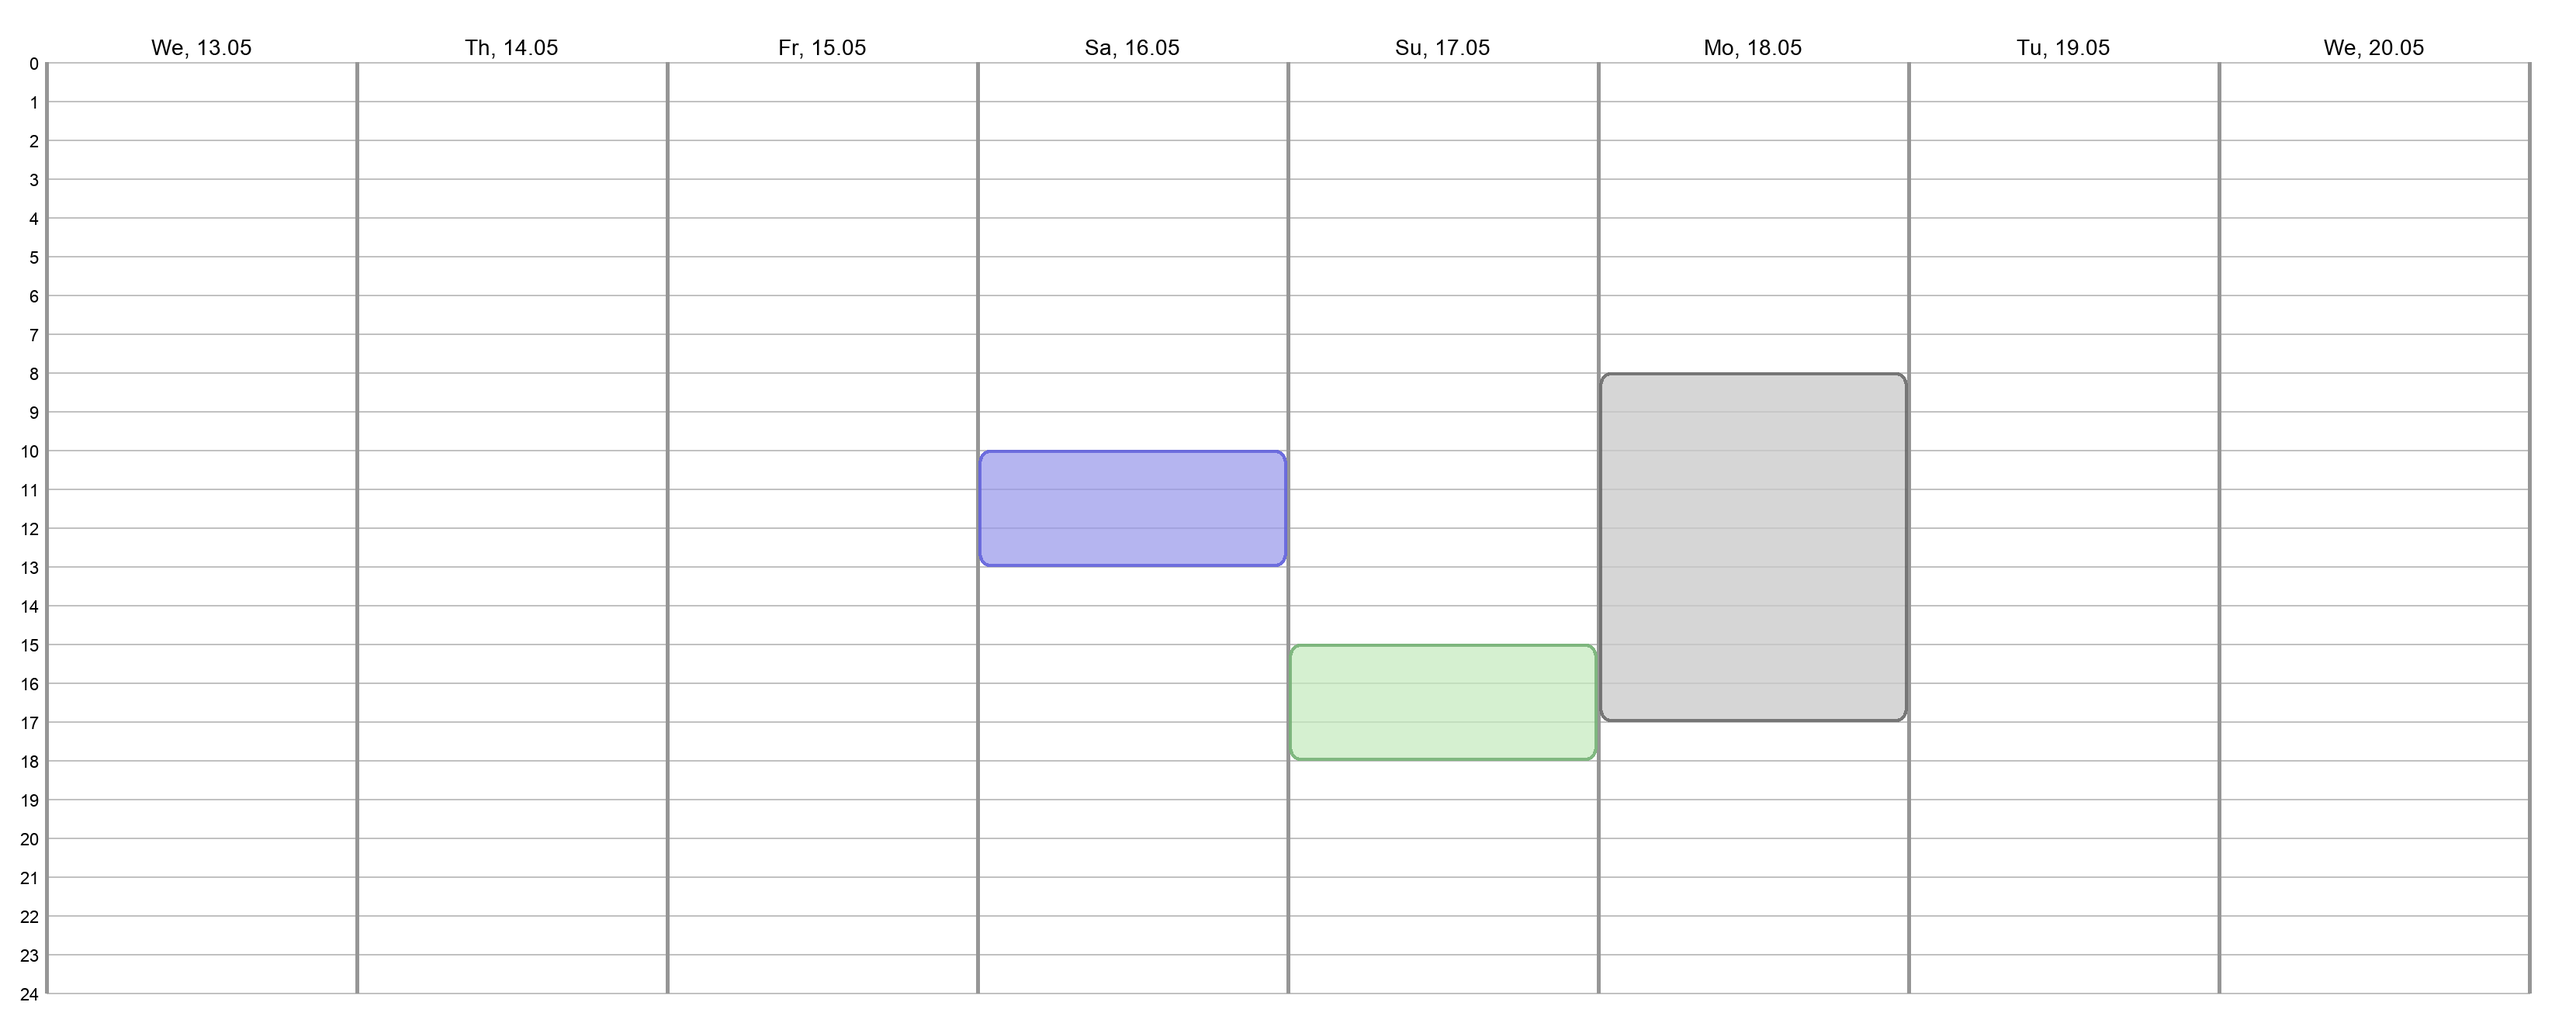
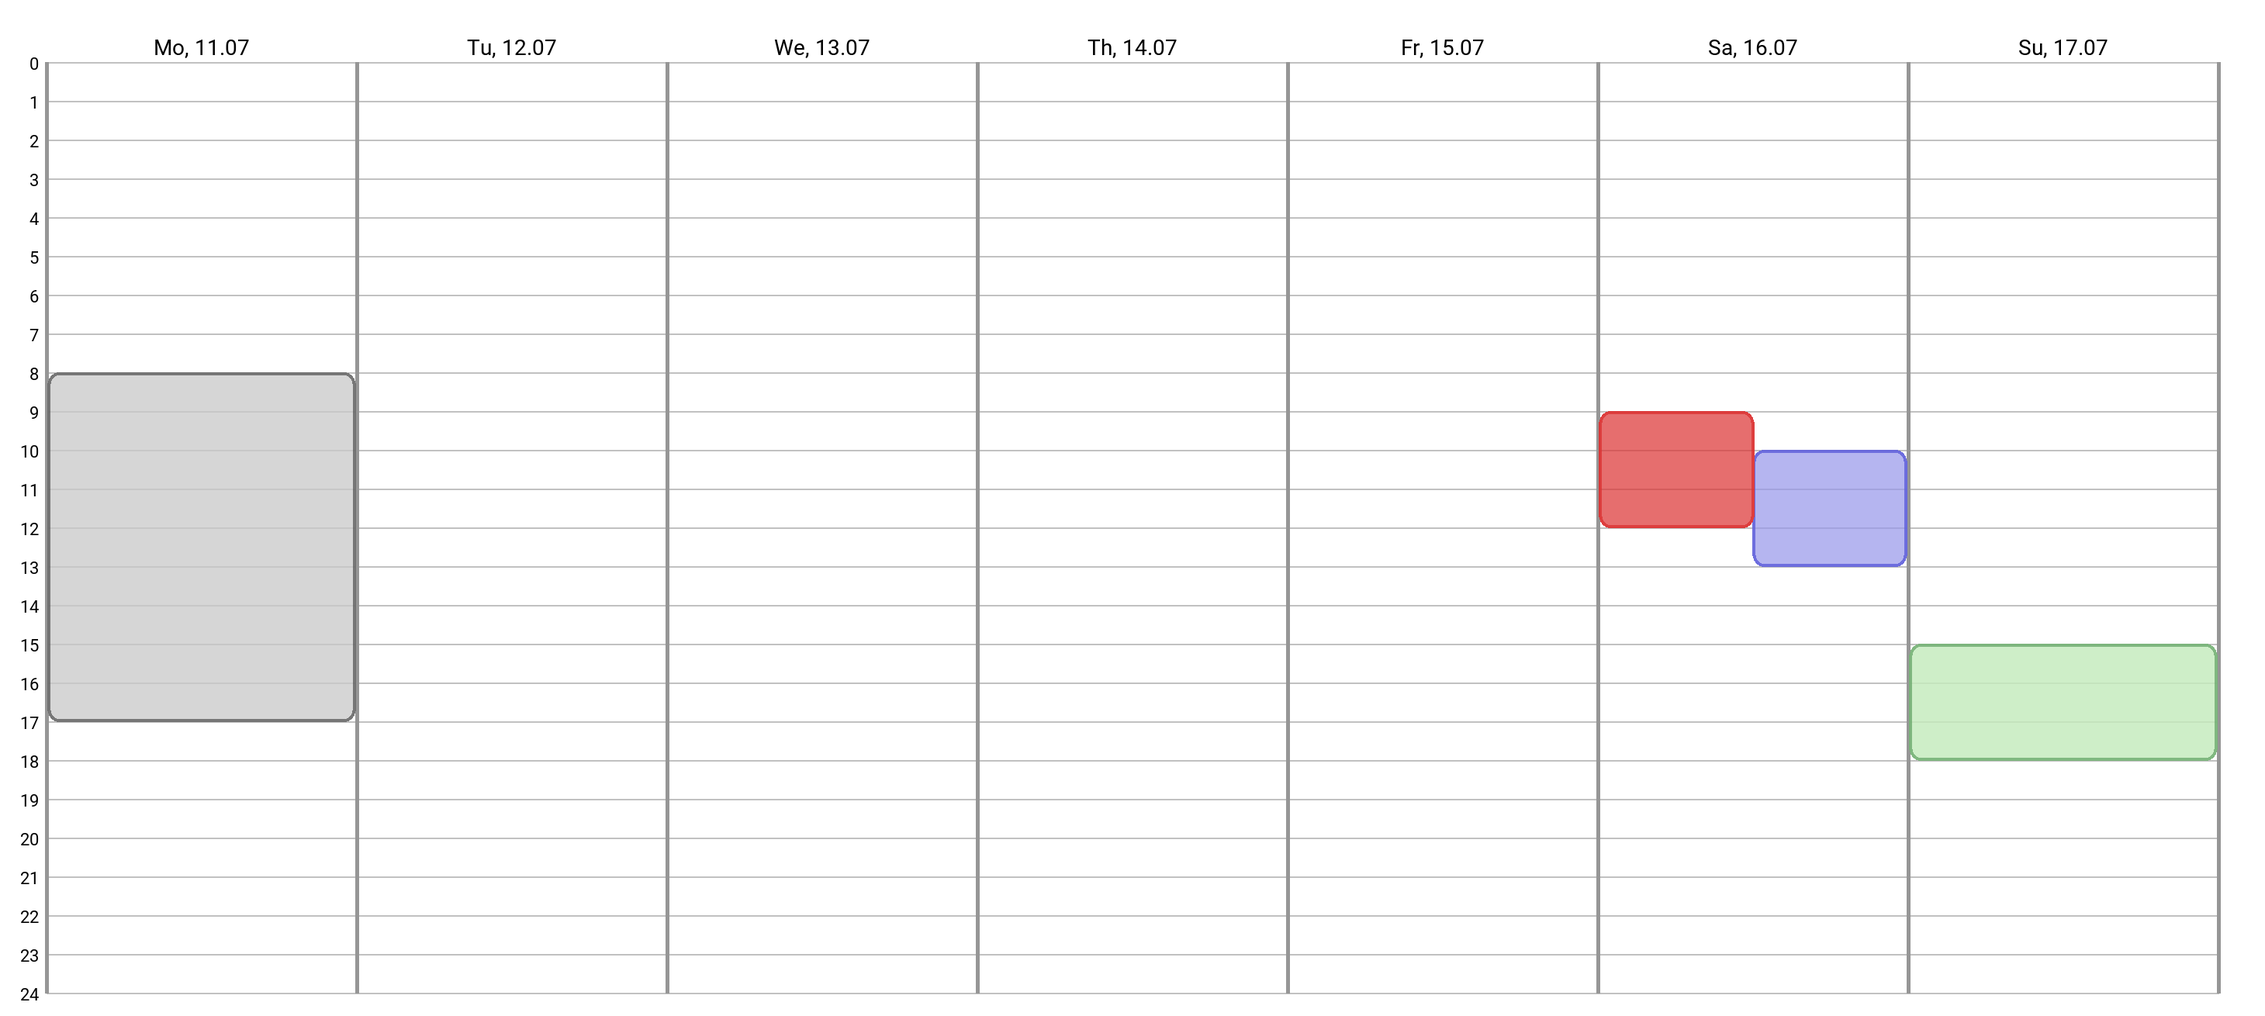
Cascade events (#9)
Add cascade view of events.

diff --git a/calendar_view/core/calendar_events.py b/calendar_view/core/calendar_events.py
@@ -1,5 +1,6 @@
 import logging
 import textwrap
+from collections import defaultdict
 from datetime import date, time, datetime, timedelta
 from typing import List, Tuple, Optional, NoReturn
 
@@ -92,6 +93,47 @@ class CalendarEvents(object):
             if width < text_size[0] or height < text_size[1]:
                 self.config.legend = True
 
+    def group_cascade_events(self) -> NoReturn:
+        group_counter: int = 1
+        groups: dict[int, list[Event]] = defaultdict(list)
+        for i in self.events:
+            for j in self.events:
+                if j == i:
+                    pass
+                else:
+                    if i.start_time < j.start_time < i.end_time \
+                            and i.get_start_date(self.config) == j.get_start_date(self.config):
+                        if i.cascade_group == 0 and j.cascade_group == 0:
+                            i.cascade_group = group_counter
+                            j.cascade_group = group_counter
+                            group_counter += 1
+                        elif i.cascade_group == 0 and j.cascade_group != 0 or i.cascade_group != 0 \
+                                and j.cascade_group == 0:
+                            group_index: int = max(i.cascade_group, j.cascade_group)
+                            i.cascade_group, j.cascade_group = group_index, group_index
+                        elif i.cascade_group != j.cascade_group:
+                            for k in self.events:
+                                if k.cascade_group == i.cascade_group:
+                                    k.cascade_group = j.cascade_group
+
+        for i in self.events:
+            if i.cascade_group > 0:
+                group: list[Event] = groups[i.cascade_group]
+                group.append(i)
+        for i in groups.values():
+            total_group_cascade: int = len(i)
+            event_index: int = 1
+            for j in i:
+                j.cascade_index = event_index
+                event_index += 1
+                j.cascade_total = total_group_cascade
+
+        for i in groups.values():
+            for j in i:
+                for k in i:
+                    if j.cascade_index > k.cascade_index and j.start_time < k.start_time:
+                        j.cascade_index, k.cascade_index = k.cascade_index, j.cascade_index
+
     def _draw_event(self, event: Event) -> NoReturn:
         """
         The events have already been split to the separate days. The event is for 1 day only.
@@ -99,8 +141,12 @@ class CalendarEvents(object):
         day_number = (event.get_start_date(self.config) - self.config.get_date_range()[0]).days
         x = self.__get_event_x(day_number)
         y = self.__get_event_y(event.start_time, event.end_time)
-        p1 = (x[0] + style.line_day_width/2, y[0])
-        p2 = (x[1] - style.line_day_width/2, y[1])
+        event_width: int = x[1] - x[0] - style.line_day_width
+        cascade_event_width: int = event_width / event.cascade_total
+        x1 = x[0] + style.line_day_width / 2 + (event.cascade_index - 1) * cascade_event_width
+        x2 = x1 + cascade_event_width
+        p1 = (x1, y[0])
+        p2 = (x2, y[1])
         draw_rounded_rectangle(self.event_draw, [p1, p2], style.event_radius, outline=event.style.event_border,
                                fill=event.style.event_fill, width=style.event_border_width)
 
@@ -130,7 +176,7 @@ class CalendarEvents(object):
                                                                                   total_text_height=total_height)
             # the top-left position of the title block
             title_pos: tuple[int, int] = (
-                (x[0] + x[1]) / 2 - title_metadata.size[0] / 2,
+                (p1[0] + p2[0]) / 2 - title_metadata.size[0] / 2,
                 y_top_offset + y_text_offset
             )
             self.event_draw.multiline_text(title_pos, title_metadata.text, align='center',
@@ -149,7 +195,7 @@ class CalendarEvents(object):
                                                                                  total_text_height=total_height)
             # the top-left position of the notes block
             notes_pos: tuple[int, int] = (
-                x[0] + style.event_padding,
+                p1[0] + style.event_padding,
                 y_top_offset + y_text_offset
             )
             self.event_draw.multiline_text(notes_pos, notes_metadata.text, align='left',
@@ -214,8 +260,10 @@ class CalendarEvents(object):
             start_hour -= config_start_hour
             end_hour -= config_start_hour
 
-        y_start = style.padding_vertical + style.hour_height + start_hour * style.hour_height + (start.minute / 60) * style.hour_height
-        y_end = style.padding_vertical + style.hour_height + end_hour * style.hour_height + (end.minute / 60) * style.hour_height
+        y_start = style.padding_vertical + style.hour_height + start_hour * style.hour_height + (
+                    start.minute / 60) * style.hour_height
+        y_end = style.padding_vertical + style.hour_height + end_hour * style.hour_height + (
+                    end.minute / 60) * style.hour_height
         return y_start, y_end
 
     @staticmethod

diff --git a/calendar_view/core/event.py b/calendar_view/core/event.py
@@ -1,4 +1,4 @@
-from typing import Union
+from typing import Union, NoReturn
 
 from calendar_view.config import style
 from calendar_view.core.config import CalendarConfig
@@ -66,8 +66,12 @@ class Event(object):
         self.__start_time: time = Event.__parse_time(start)
         self.__end_time: time = Event.__parse_time(end)
 
+        self.cascade_total: int = 1
+        self.cascade_index: int = 1
+        self.cascade_group: int = 0
         # run additional validation
         self.__validate()
+
 
     @staticmethod
     def __parse_start_date(day_of_week: Optional[int],
@@ -169,7 +173,9 @@ class Event(object):
     def __repr__(self) -> str:
         return f'Event[title: {self.title}, notes: {self.notes}, style: {self.style}, ' \
                f'day_of_week: {self.__day_of_week}, start_date: {self.__start_date}, end_date: {self.__end_date}, ' \
-               f'start_time: {self.start_time}, end_time: {self.end_time}]'
+               f'start_time: {self.start_time}, end_time: {self.end_time},' \
+               f'cascade_group: {self.cascade_group}, cascade_total: {self.cascade_total}, ' \
+               f'cascade_index: {self.cascade_index}]'
 
     def __eq__(self, other) -> bool:
         return isinstance(other, Event) \
@@ -180,4 +186,7 @@ class Event(object):
                and self.__start_date == other.__start_date \
                and self.__end_date == other.__end_date \
                and self.start_time == other.start_time \
-               and self.end_time == other.end_time
+               and self.end_time == other.end_time \
+               and self.cascade_group == other.cascade_group \
+               and self.cascade_total == other.cascade_total \
+               and self.cascade_index == other.cascade_index

diff --git a/setup.py b/setup.py
@@ -5,9 +5,9 @@ with open("README.rst", "r") as f:
 
 setuptools.setup(
     name="calendar-view",
-    version="2.0.0",
-    author="Oleksandr Sakhnevych",
-    author_email="o.sakhnevych@gmail.com",
+    version="2.1.0",
+    author="Oleksandr Sakhnevych, Daniil Limariev",
+    author_email="o.sakhnevych@gmail.com, danillim02102003@gmail.com",
     description="Library provides a graphical view of the calendar.",
     long_description=long_description,
     long_description_content_type="text/x-rst",

diff --git a/calendar_view/calendar.py b/calendar_view/calendar.py
@@ -1,4 +1,5 @@
-from typing import List
+from collections import defaultdict
+from typing import List, NoReturn
 
 from PIL import Image, ImageDraw
 
@@ -47,7 +48,8 @@ class Calendar:
         if kwargs:
             self.events.add_event(Event(**kwargs))
 
-    def save(self, filename: str):
+    def save(self, filename: str) -> NoReturn:
+        self.events.group_cascade_events()
         self._build_image()
         self.full_image.save(filename, "PNG")
 

diff --git a/example/n1-simple_view.py b/example/n1-simple_view.py
@@ -3,6 +3,7 @@ from calendar_view.core.event import EventStyles
 
 calendar = Calendar.build()
 calendar.add_event(day_of_week=0, start='08:00', end='17:00', style=EventStyles.GRAY)
+calendar.add_event(day_of_week=5, start='09:00', end='12:00', style=EventStyles.RED)
 calendar.add_event(day_of_week=5, start='10:00', end='13:00', style=EventStyles.BLUE)
 calendar.add_event(day_of_week=6, start='15:00', end='18:00')
 calendar.save("simple_view.png")

diff --git a/README.rst b/README.rst
@@ -152,6 +152,7 @@ Code:
 
     calendar = Calendar.build()
     calendar.add_event(day_of_week=0, start='08:00', end='17:00', style=EventStyles.GRAY)
+    calendar.add_event(day_of_week=5, start='09:00', end='12:00', style=EventStyles.RED)
     calendar.add_event(day_of_week=5, start='10:00', end='13:00', style=EventStyles.BLUE)
     calendar.add_event(day_of_week=6, start='15:00', end='18:00')
     calendar.save("simple_view.png")
